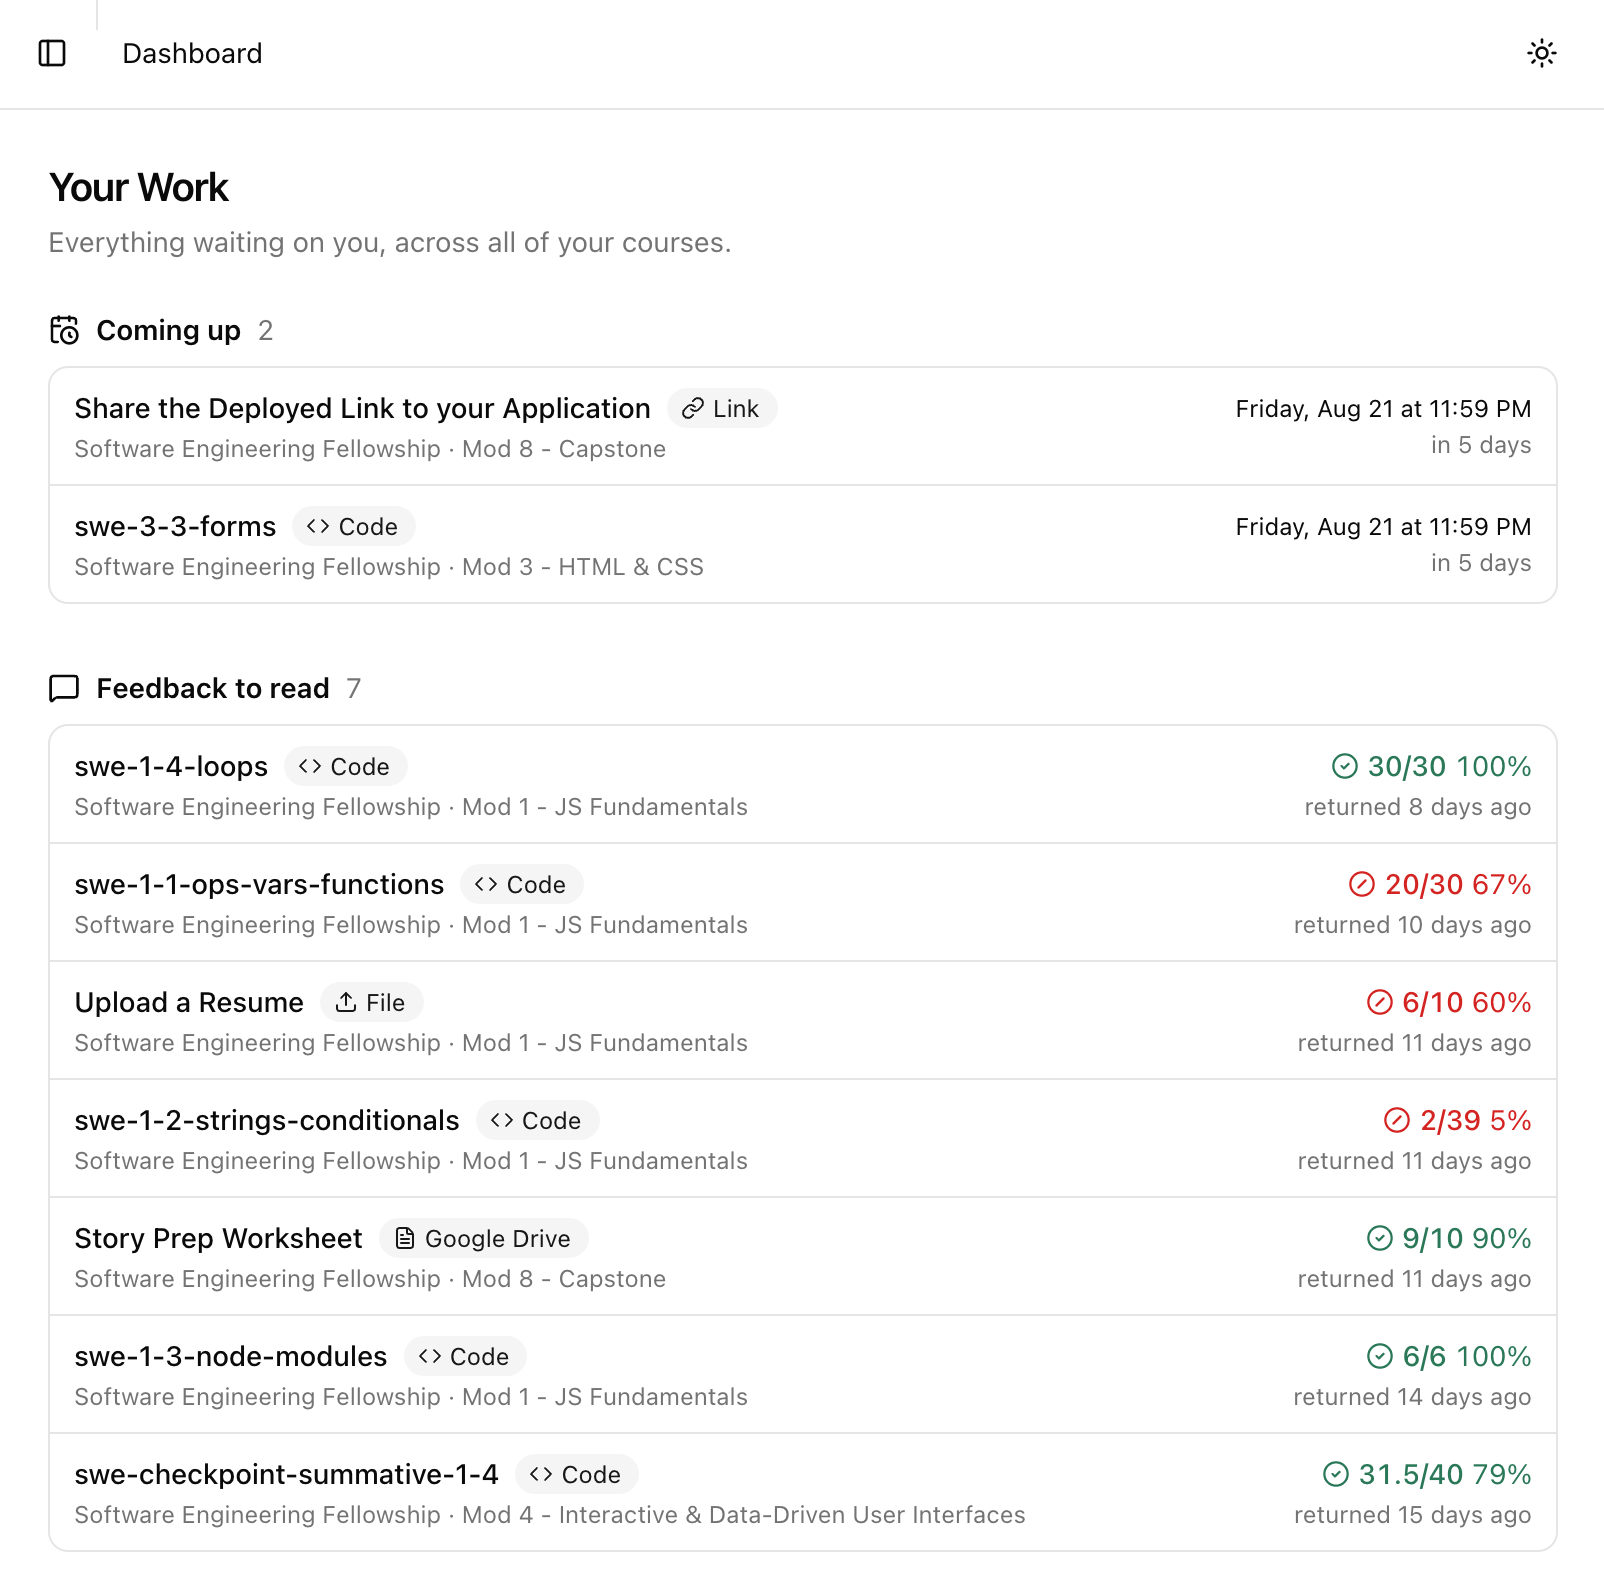
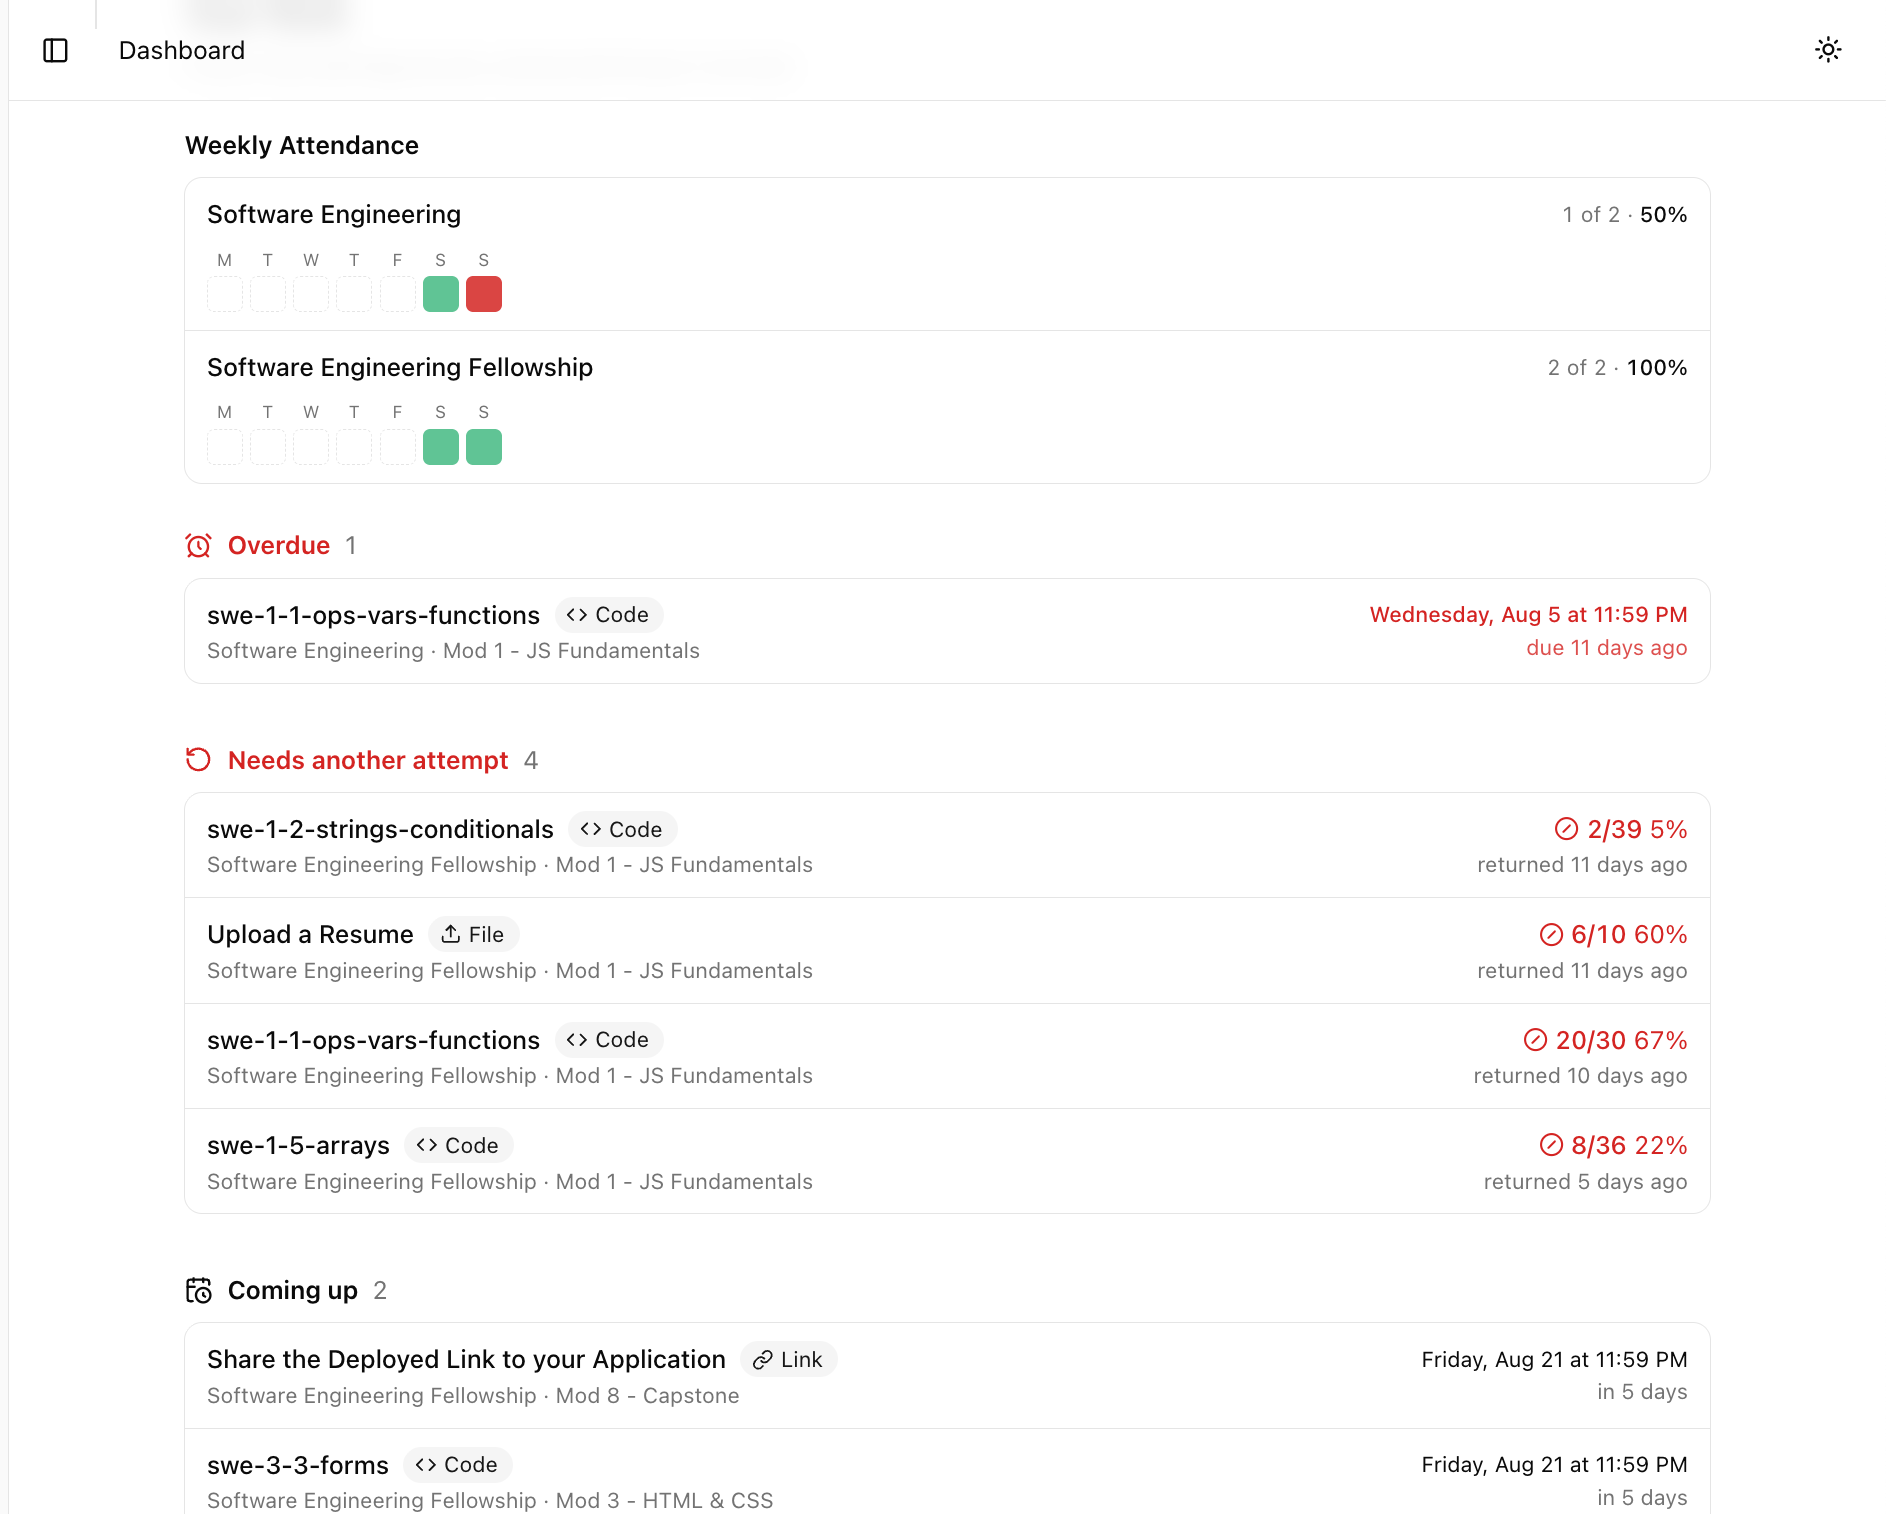
updating pitch deck

diff --git a/pitch/index.html b/pitch/index.html
@@ -976,12 +976,12 @@
         <div class="body">
           <div class="col narrow dense">
             <ul>
-              <li><strong>One dashboard across every cohort:</strong> Overdue · Coming up · <strong>Feedback to read</strong> · Started but not handed in</li>
+              <li><strong>One dashboard across every cohort:</strong> Weekly attendance · Overdue · Needs another attempt · Coming up · Feedback to read · Started but not handed in</li>
               <li><strong>Nothing on it can be dismissed</strong> — handing in clears a deadline, marking feedback read clears a report</li>
               <li><strong>Per course:</strong> a progress bar and a plain count — "seven of nine complete"</li>
               <li><strong>Their feedback:</strong> every round, oldest first, kept forever. A resubmission is graded fresh, so both survive</li>
               <li><strong>Asking for another look:</strong> push the work, then press the button. <strong>Pushing is not asking</strong></li>
-              <li><strong>Checking in:</strong> a four-digit code on the course's own <strong>Attendance</strong> screen, one click away in the sidebar &mdash; beside the calendar of their own record. Slide 12</li>
+              <li><strong>Checking in:</strong> a four-digit code that can be entered either on the Dashboard or on the course's own <strong>Attendance</strong> screen.</li>
               <li><strong>We can see whether they read it</strong> — and that gates nothing. Information for a mentor conversation</li>
             </ul>
           </div>
